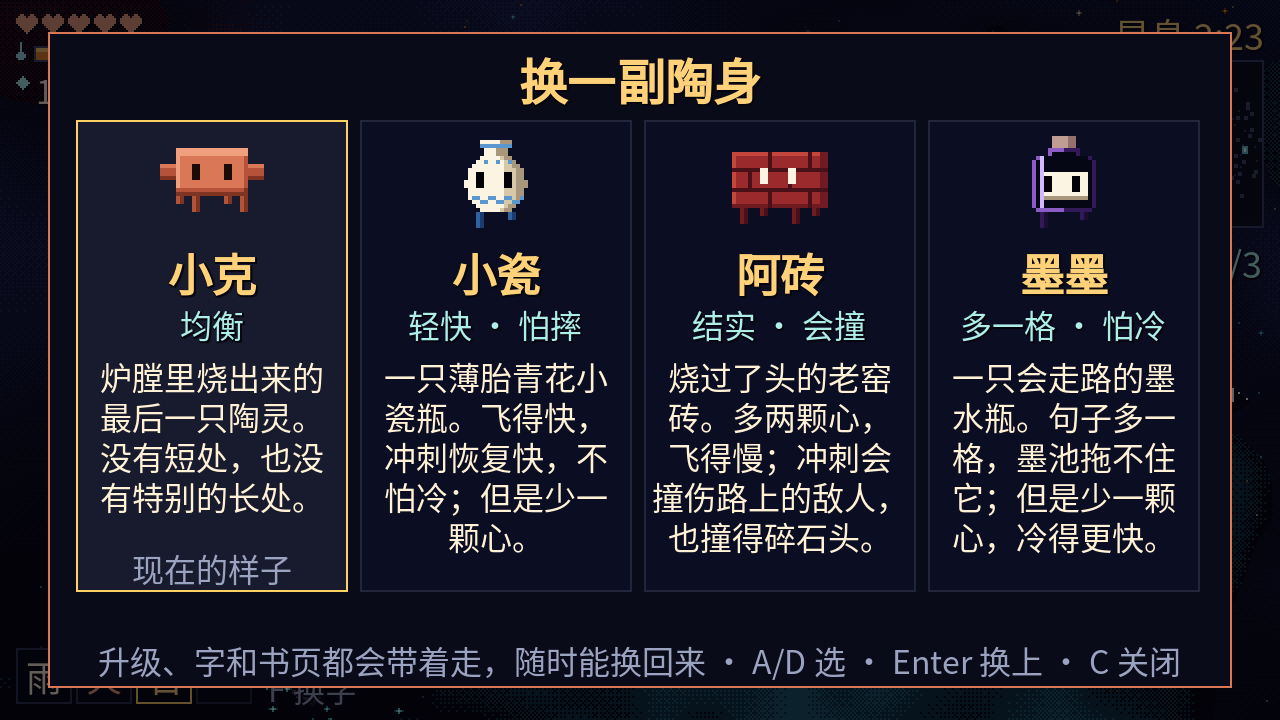
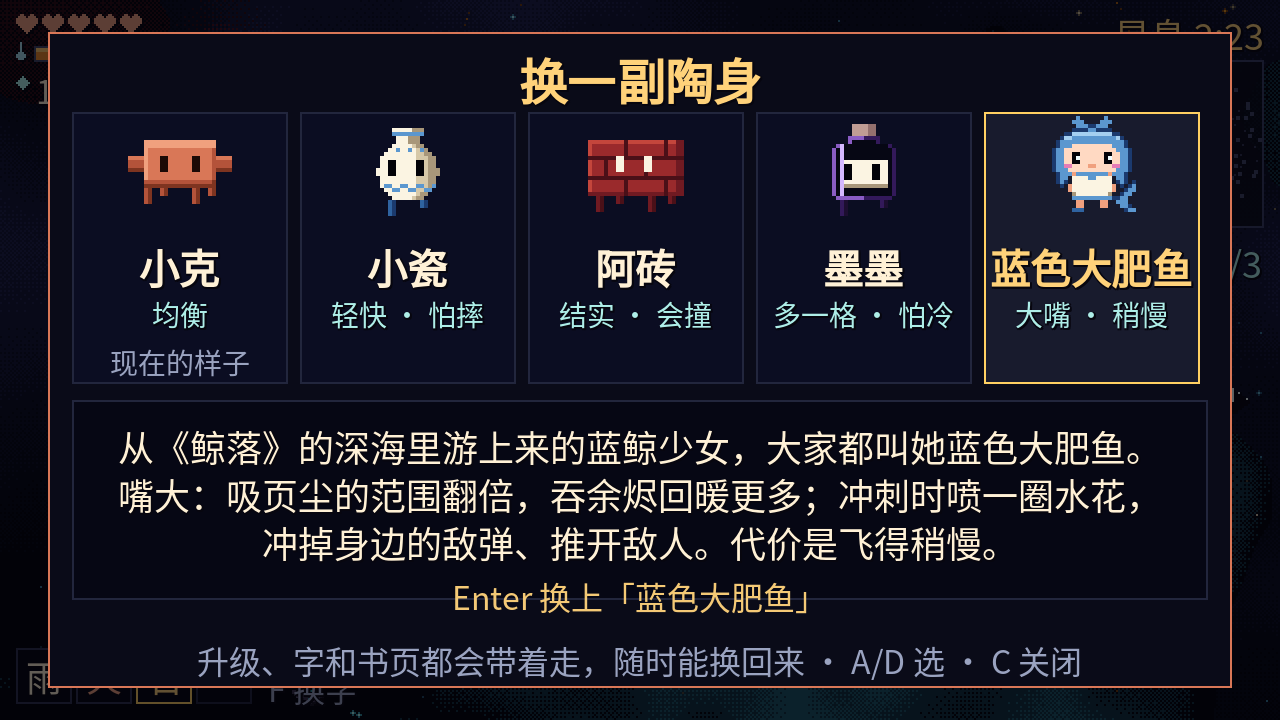
加第五个角色「蓝色大肥鱼」（原创 Q 版蓝鲸少女）
- 吸页尘范围翻倍，吞余烬回暖 +55（原来 +35）
- 冲刺时喷一圈水花：冲掉身边的敌弹、推开普通敌人
- 移动速度 ×0.9
- 换角色面板改成五张小卡片 + 下方说明栏

Claude-Session: https://claude.ai/code/session_01VqbkzXVxhidVhkjP4aaanR

diff --git a/README.md b/README.md
@@ -56,7 +56,7 @@ godot --path .
 
 ![第二章](docs/screenshot-ch2.png)
 
-## 四只陶灵
+## 五个角色
 
 在炉灯边按 C（手机点「角色」）可以随时换一副陶身，升级、字和书页都带着走：
 
@@ -66,6 +66,7 @@ godot --path .
 | 小瓷 | 飞得快、冲刺恢复快、不怕冷，少一颗心 |
 | 阿砖 | 多两颗心、飞得慢，冲刺能撞伤敌人、撞碎石头 |
 | 墨墨 | 句子多一格、不怕墨池，少一颗心、冷得更快 |
+| 蓝色大肥鱼 | 吸页尘范围翻倍、吞余烬回暖更多，冲刺喷水花冲掉敌弹；飞得稍慢 |
 
 ![角色](docs/screenshot-chars.png)
 
